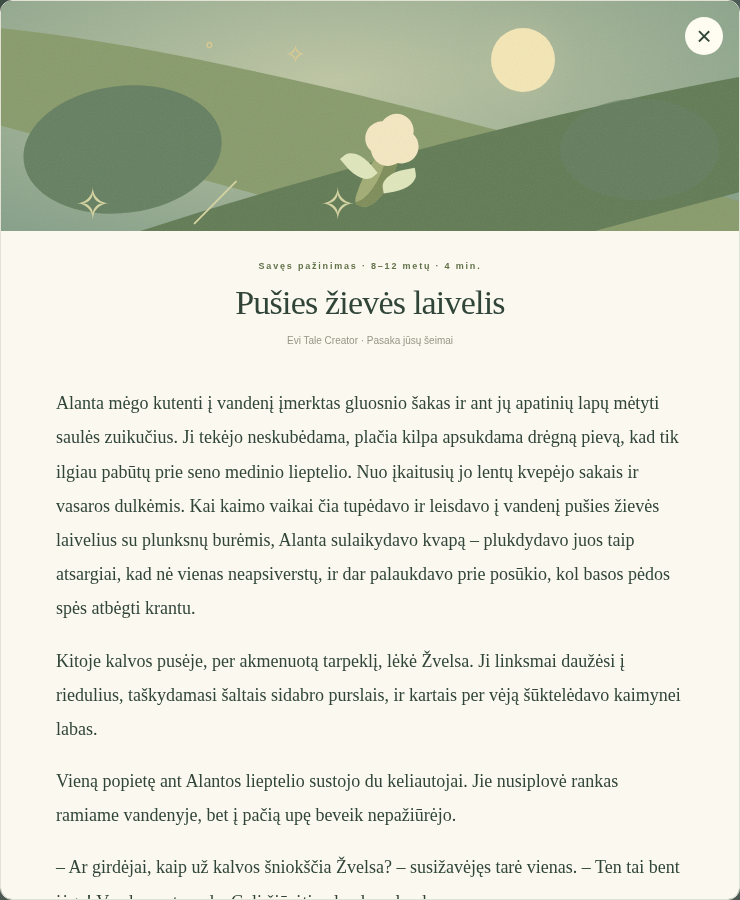
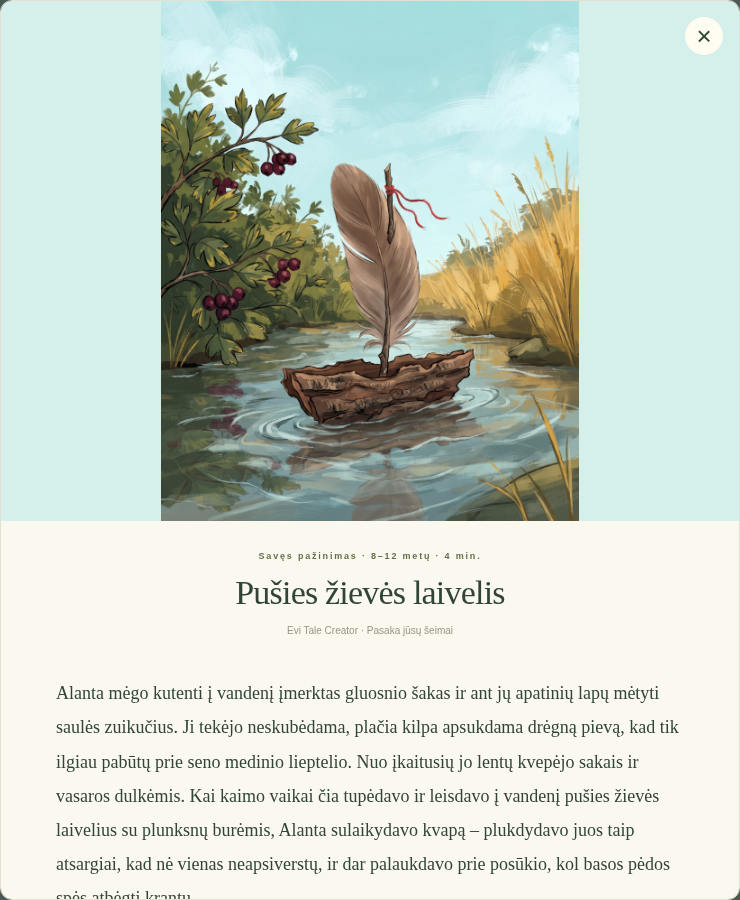
Use the uploaded boat illustration for Pušies žievės laivelis

diff --git a/style.css b/style.css
@@ -17,3 +17,4 @@ header{border-bottom-color:#d9dfd2}.brand-icon{color:#617343}.tiny-dot{backgroun
 
 /* Keep the full uploaded illustration visible when reading a story. */
 .cover-button .story-cover{object-position:center 42%}.reader-heading>.story-cover{height:auto;max-height:520px;object-fit:contain;background:#d5efeb}
+.cover-button[data-read="pusies-zieves-laivelis"] .story-cover{object-position:center bottom}

diff --git a/content/stories/pusies-zieves-laivelis.md b/content/stories/pusies-zieves-laivelis.md
@@ -5,8 +5,8 @@ topic: Savęs pažinimas
 status: published
 color: garden
 sample: false
-image:
-imageAlt:
+image: illustrations/pusies-zieves-laivelis.jpg
+imageAlt: Pušies žievės laivelis su plunksnos bure ir raudonu siūlu plaukia upe tarp žalių krūmų ir auksinių žolių.
 desc: Rami upė Alanta išgirsta keliautojų susižavėjimą kaimyne Žvelsa ir ryžtasi pakeisti savo kelią.
 ---
 
